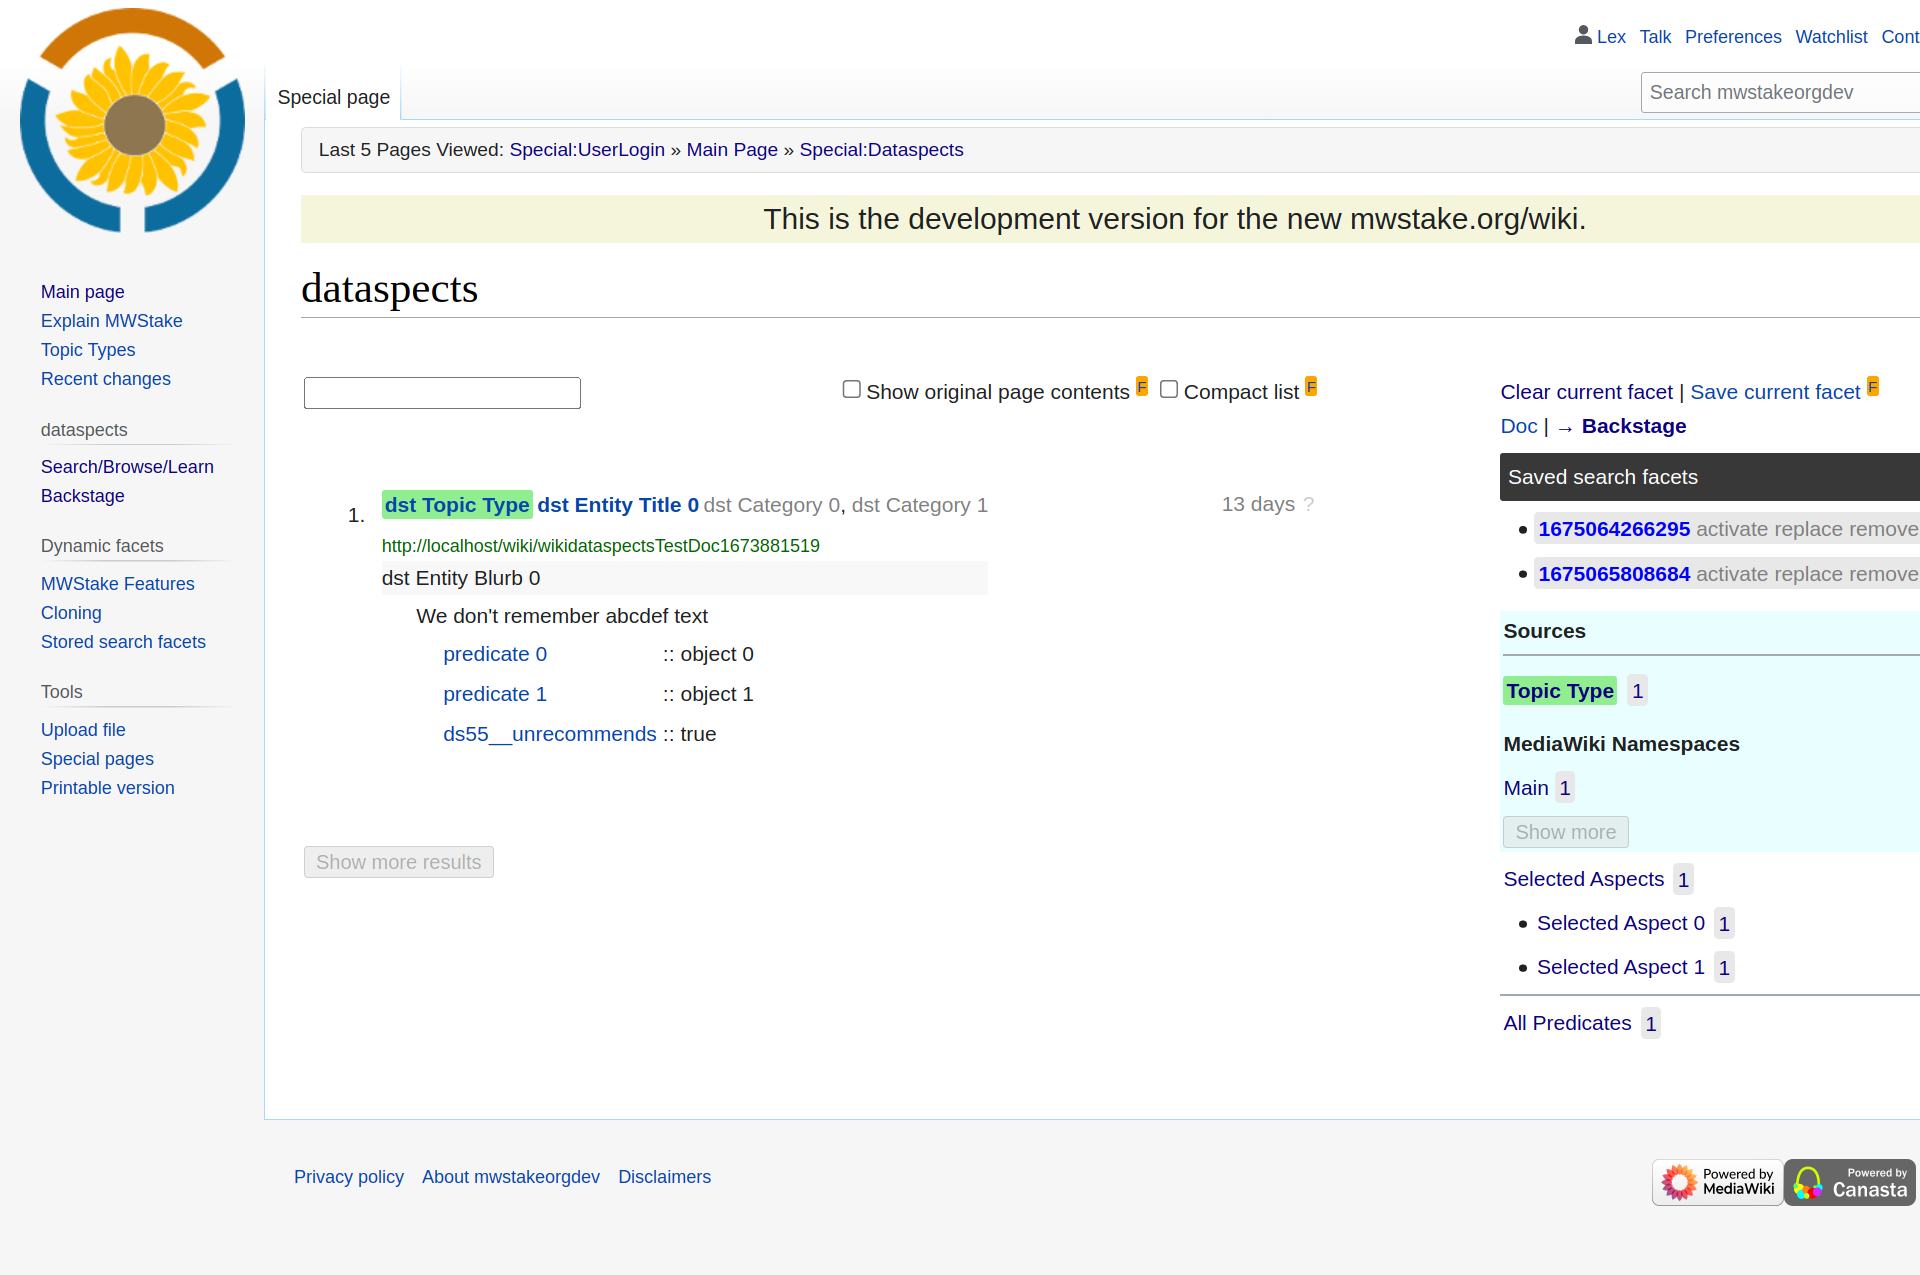
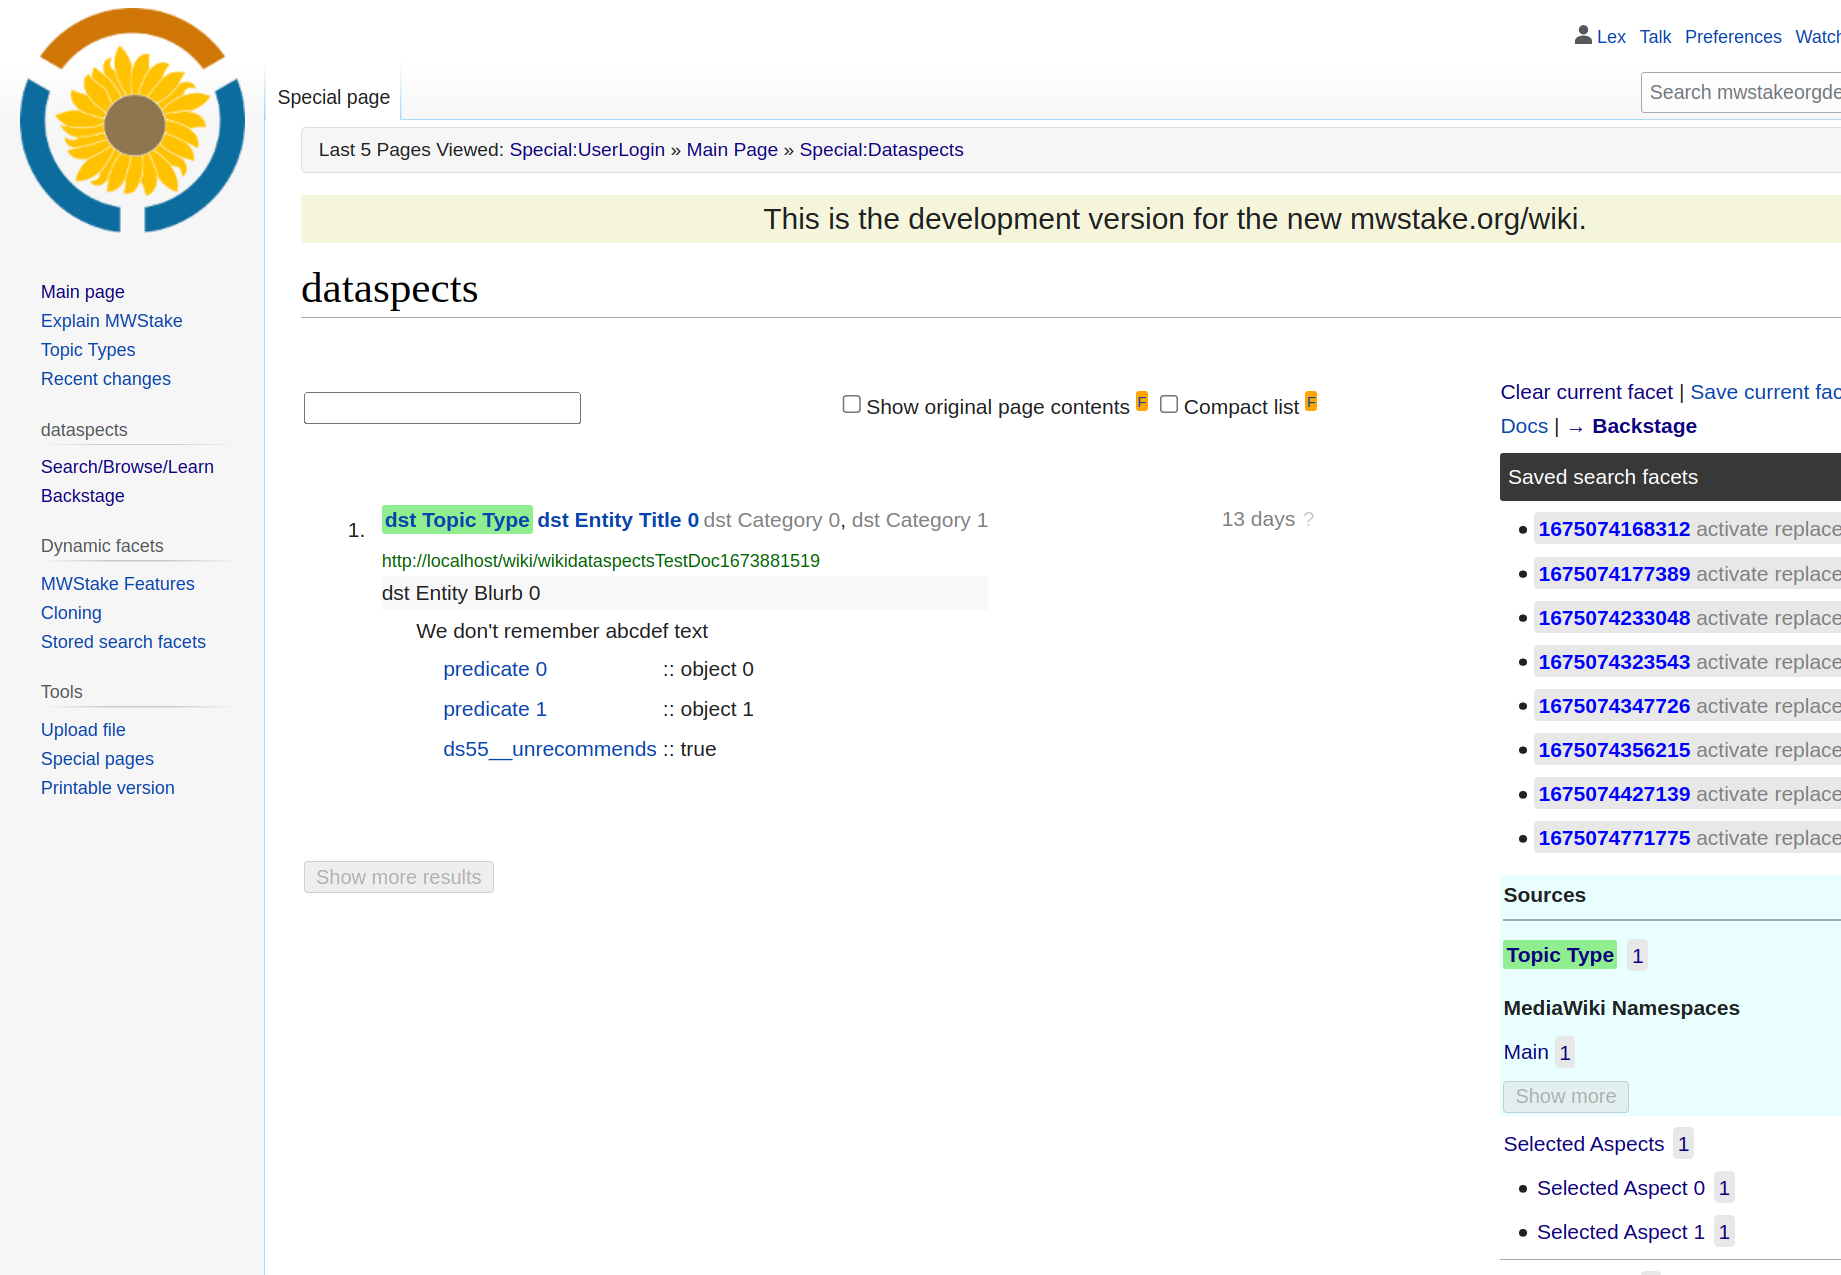
clip_screenshot_and_click

diff --git a/cypress/support/commands.js b/cypress/support/commands.js
@@ -35,9 +35,30 @@ Cypress.on("uncaught:exception", (err, runnable) => {
 
 const wait = 500;
 
-Cypress.Commands.add("take_screenshot", (imageName) => {
+Cypress.Commands.add("take_screenshot", (imageName, coords) => {
+  const surroundingsFrameFactor = 200;
   cy.wait(1000);
-  cy.screenshot(imageName, { capture: "viewport" });
+  if (coords) {
+    cy.screenshot(imageName, {
+      capture: "viewport",
+      clip: {
+        x: coords.x - surroundingsFrameFactor / 2,
+        y: coords.y - surroundingsFrameFactor / 2,
+        width: coords.width + surroundingsFrameFactor,
+        height: coords.height + surroundingsFrameFactor,
+      },
+    });
+  } else {
+    cy.screenshot(imageName, {
+      capture: "viewport",
+    });
+  }
+});
+
+Cypress.Commands.add("clip_screenshot_and_click", (target, name) => {
+  var coords = target[0].getBoundingClientRect();
+  cy.take_screenshot(name, coords);
+  target.click();
 });
 
 Cypress.Commands.add("mediawiki_login", (login) => {
@@ -146,7 +167,11 @@ Cypress.Commands.add("save_search_facet", (name) => {
   // Type
   cy.type_text_into_text_input('[data-cy="saveSearchFacetFormHTMLName"]', name);
   // Save
-  cy.get('[data-cy="saveSearchFacetFormHTMLSave"]').click();
+  cy.get('[data-cy="saveSearchFacetFormHTMLSave"]').then(($target) => {
+    var coords = $target[0].getBoundingClientRect();
+    cy.take_screenshot("save-a-facet", coords);
+    $target.click();
+  });
 });
 
 Cypress.Commands.add("remove_search_facet", (name) => {

diff --git a/cypress/e2e/CRUD/search-facets.cy.js b/cypress/e2e/CRUD/search-facets.cy.js
@@ -6,19 +6,23 @@ it.only("should save a new facet, find, use and remove it", () => {
   cy.mediawiki_login(login);
   cy.visit("/wiki/Special:Dataspects");
   // Configure a facet
-  cy.get("span.ds0__specialAspect").contains("Selected Aspects").click();
+  cy.get("span.ds0__specialAspect")
+    .contains("Selected Aspects")
+    .then(($target) => {
+      cy.clip_screenshot_and_click($target, "configure-a-facet");
+    });
   cy.get("span.ds0__specialAspect").contains("Selected Aspect 1").click();
-  cy.take_screenshot("configure-a-facet");
   // Save the facet
   const unixTimestamp = Math.floor(Date.now());
   cy.save_search_facet(unixTimestamp);
-  cy.take_screenshot("save-a-facet");
+
   // Clear facets
   cy.clear_current_facet();
   cy.number_of_search_results_should_be(2);
   // Show facets
-  cy.get('[data-cy="showSavedSearchFacetsButton"]').click();
-  cy.take_screenshot("show-facets");
+  cy.get('[data-cy="showSavedSearchFacetsButton"]').then(($target) => {
+    cy.clip_screenshot_and_click($target, "show-facets");
+  });
   // Load the facet from the facet list
   cy.get('[data-cy="savedSearchFacetsUL"]')
     .contains(
